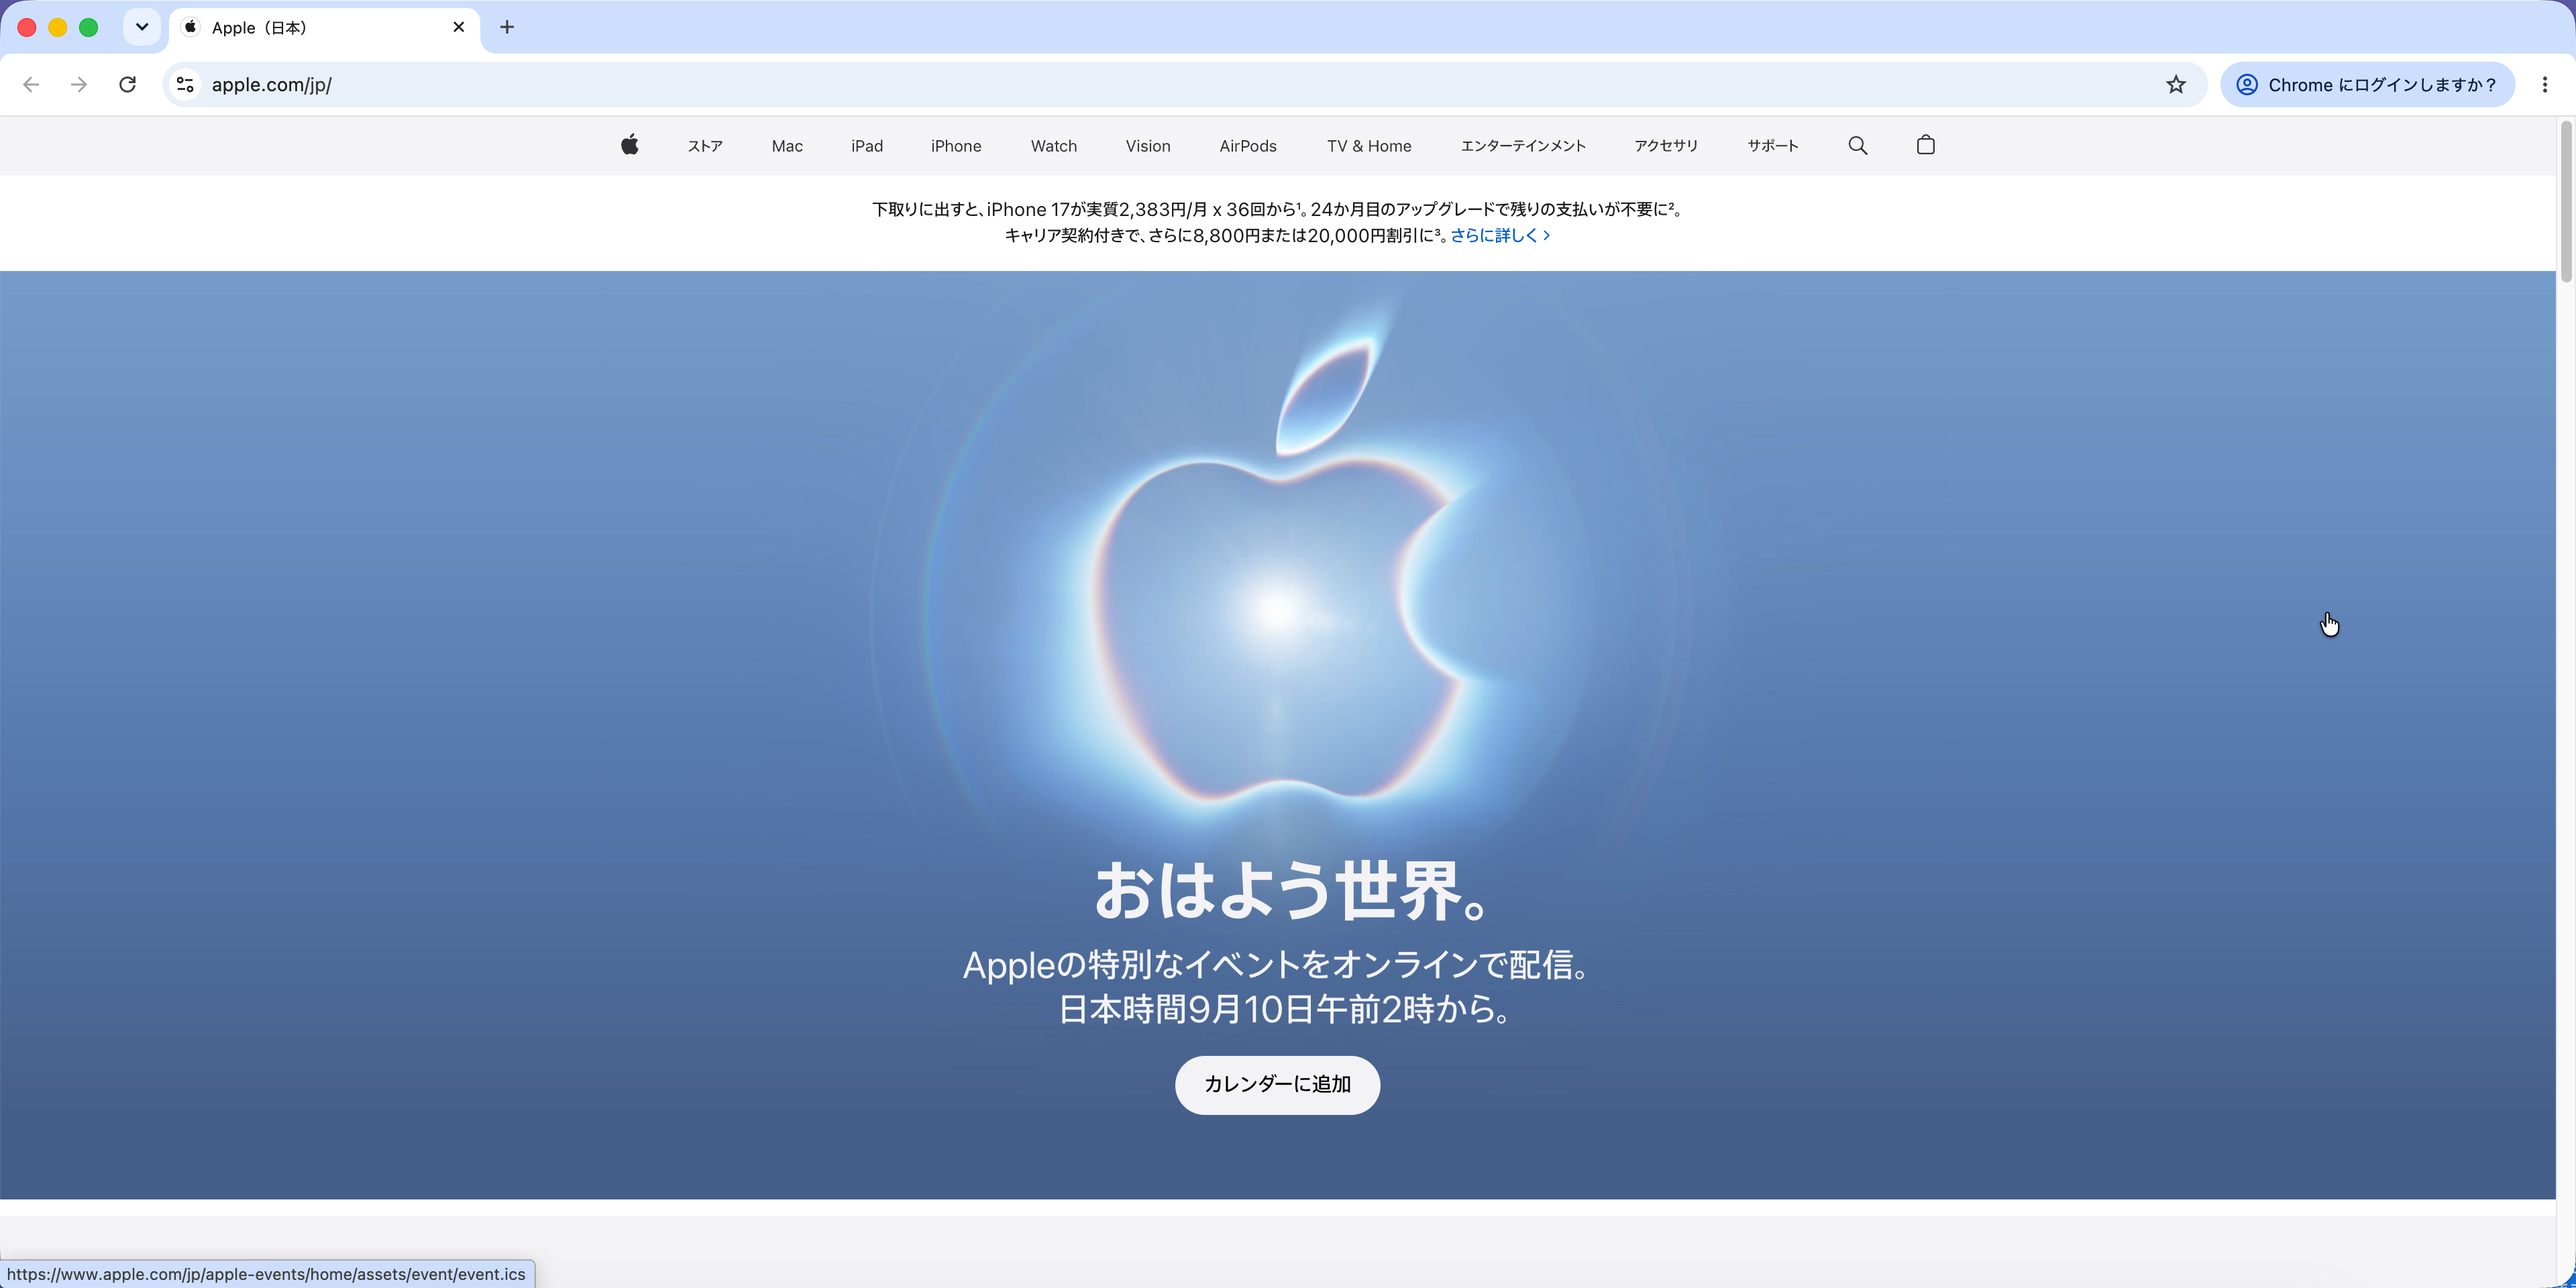
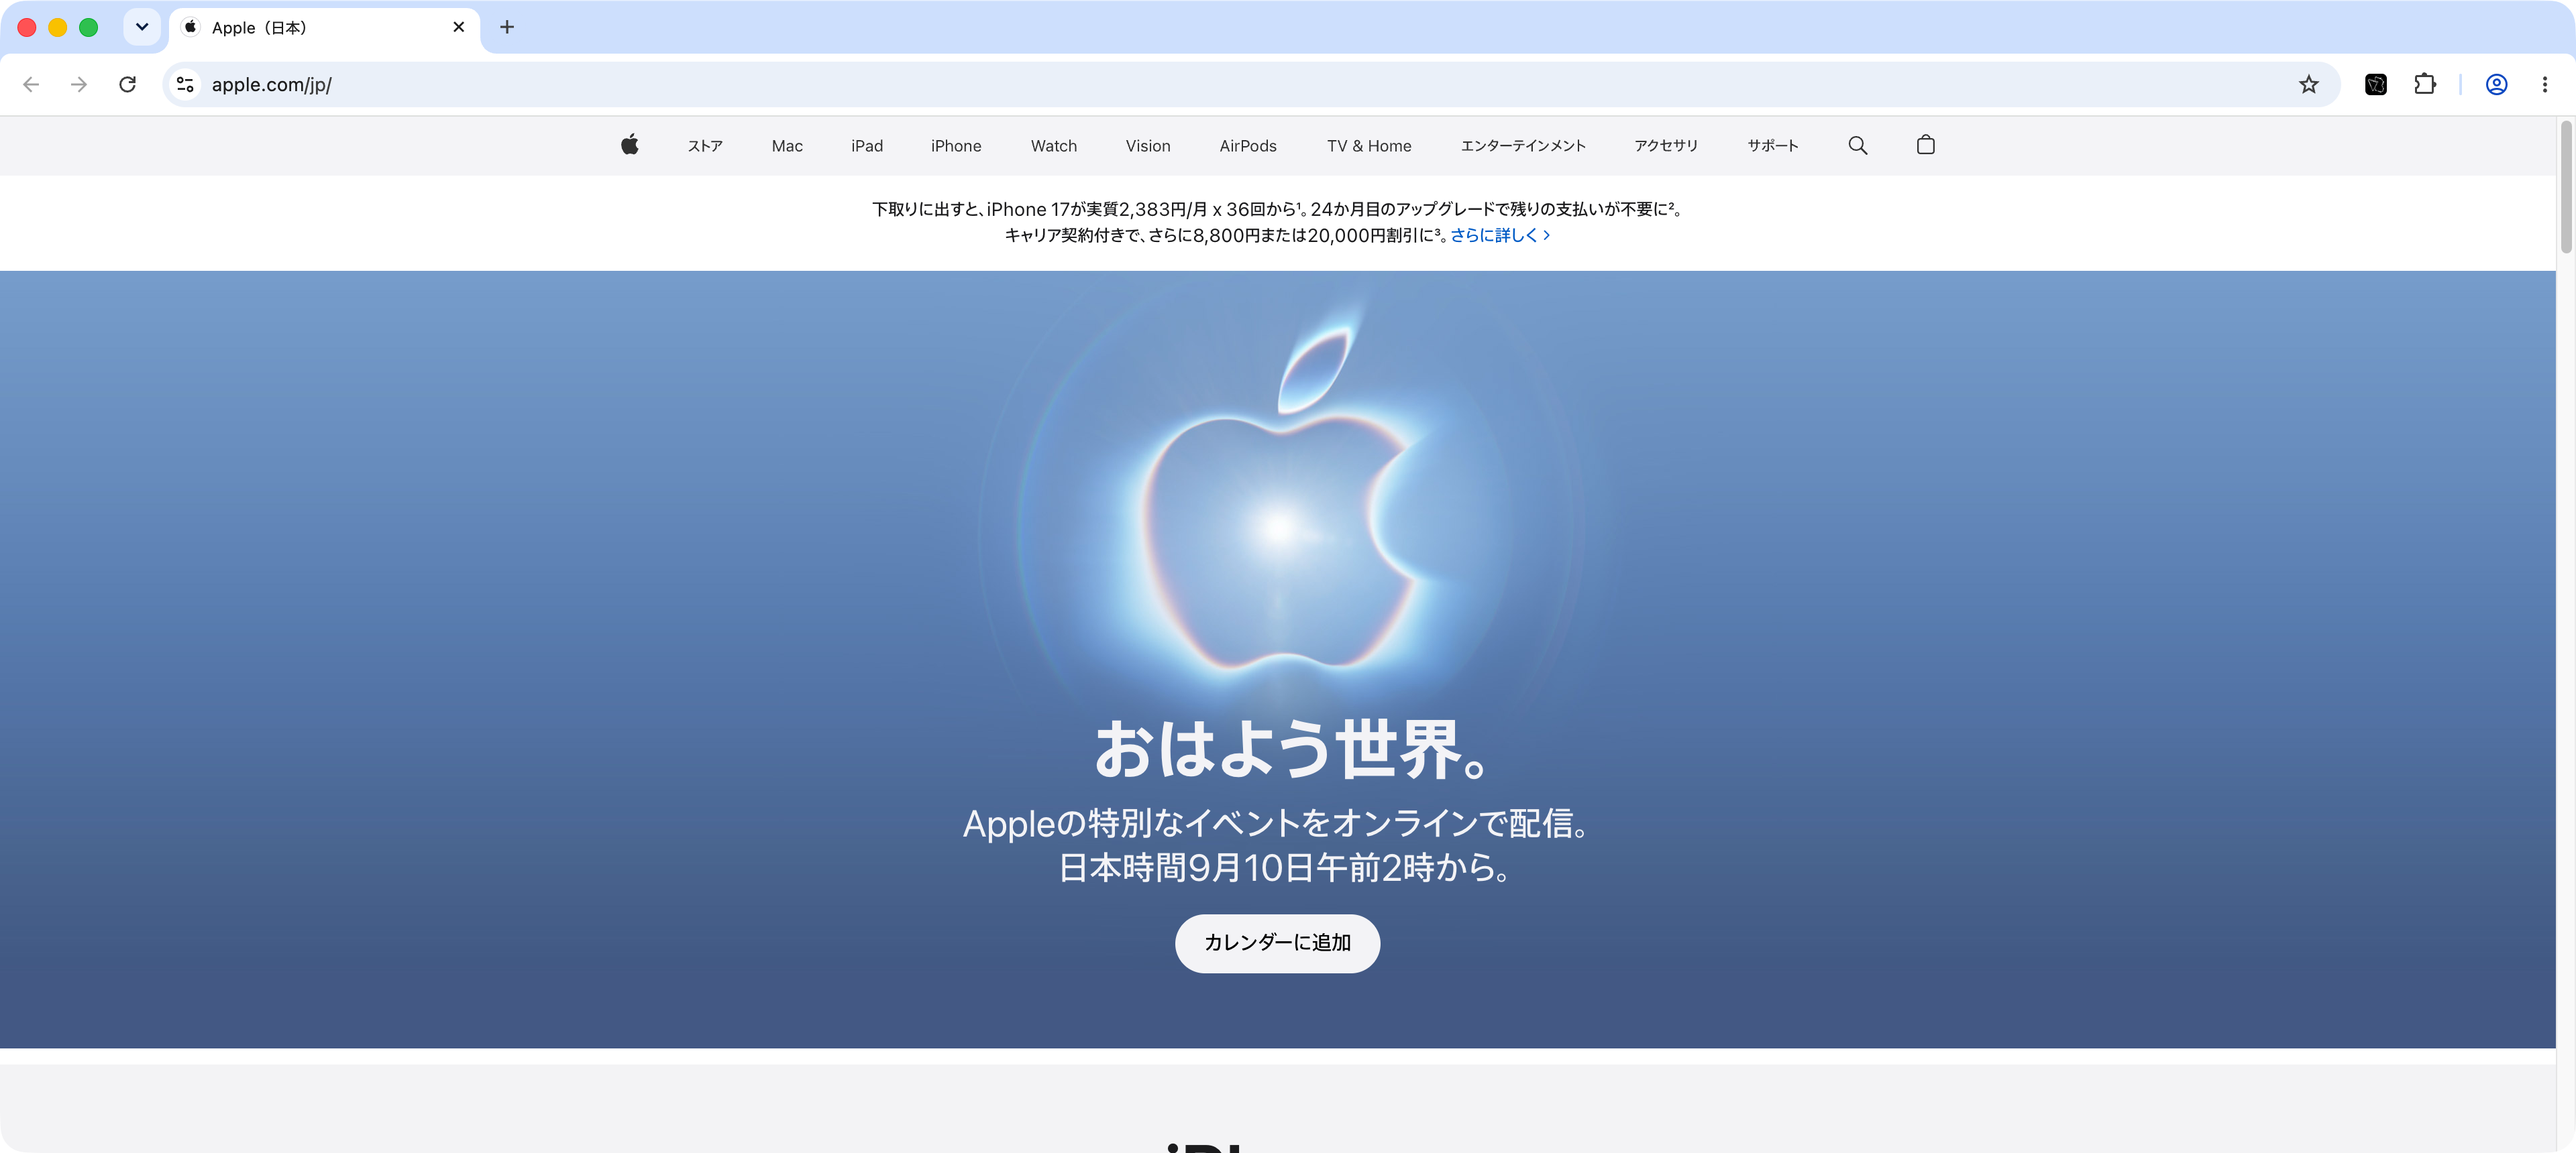
README のスクリーンショットを実ウィンドウの撮り直しへ差し替える
旧 docs/screenshots/ は CDP Emulation.setDeviceMetricsOverride で撮った PoC 証跡で、
「ウィンドウ自体がその幅になる」という本製品の主張の裏付けになっていなかった。
撮影専用の空プロファイルで Chrome を起動し、幅は native messaging host
（AppleScript set bounds）で変え、screencapture -l で対象ウィンドウ 1 枚だけを撮り直した。

- popup-1280px.png を追加。ツールバーのアイコンを実際にクリックして開いた本物のポップアップ。
  同じ操作で 375 を押すとウィンドウが 375x860 になることを確認している
- viewport-0375/0390/0768/1920px.png を実写へ差し替え。innerWidth は 4 幅とも狙い値と ±0
- comparison-4widths.png を実写から作り直し、縮小しても読める幅ラベルを付けた
- DevTools を bottom dock で開いたカット 2 枚を削除。ウィンドウが縮んでいる理由の説明にならず、
  かえって「DevTools で縮めている」と誤解させるため
- measurements.json と index.html を撮影方法・実測値ごと作り直した
- 冒頭ロゴを透過版から黒地版へ。透過版は GitHub のライトテーマ（白地）でほぼ消えていた
- --load-extension が無視される実測を Chrome 152 でも確認し、記述を 151 / 152 に更新

diff --git a/docs/screenshots/index.html b/docs/screenshots/index.html
@@ -1,6 +1,6 @@
 <!doctype html>
 <meta charset="utf-8">
-<title>VIEWPORT DECK — PoC スクリーンショット（2026-08-30）</title>
+<title>VIEWPORT BREAK — スクリーンショット実測（2026-09-02）</title>
 <style>
   :root { color-scheme: light dark; }
   body { margin:0; padding:40px 32px 80px; font:15px/1.7 -apple-system,"Hiragino Sans",sans-serif;
@@ -8,6 +8,7 @@
   @media (prefers-color-scheme: dark) { body { background:#111214; color:#e8e8ea; } }
   .wrap { max-width:1400px; margin:0 auto; }
   h1 { font-size:26px; margin:0 0 6px; }
+  h2 { font-size:19px; margin:36px 0 12px; }
   .lead { color:#666; margin:0 0 28px; }
   @media (prefers-color-scheme: dark) { .lead { color:#9a9aa2; } }
   table { border-collapse:collapse; margin:0 0 40px; font-size:14px; }
@@ -27,28 +28,45 @@
   .scroll img { max-width:none; border:0; border-radius:0; }
   .note { background:#fff8e1; border-left:4px solid #f0b400; padding:12px 16px; margin:0 0 32px; font-size:14px; }
   @media (prefers-color-scheme: dark) { .note { background:#2a2413; } }
+  dl { margin:0 0 32px; font-size:14px; }
+  dt { font-weight:700; margin-top:10px; }
+  dd { margin:2px 0 0 1.4em; color:#555; }
+  @media (prefers-color-scheme: dark) { dd { color:#a6a6ae; } }
 </style>
 <div class=wrap>
-  <h1>VIEWPORT DECK — PoC スクリーンショット</h1>
-  <p class=lead>2026-08-30 実測。対象は実サイト <b>https://www.apple.com/jp/</b>（<code>width=device-width, initial-scale=1, viewport-fit=cover</code>）。
-  方式A（専用プロファイル + 直接 CDP <code>Emulation.setDeviceMetricsOverride</code> / width-only）で幅だけを指定し、
-  画面上に出ている状態をそのまま撮影した。縮小表示ではなく <b>1 CSS px = 実寸</b> で描かれている。</p>
+  <h1>VIEWPORT BREAK — スクリーンショット実測</h1>
+  <p class=lead>2026-09-02 撮影。対象は実サイト <b>https://www.apple.com/jp/</b>、ブラウザは <b>Chrome/152.0.7977.65</b>。</p>
 
-  <div class=note>前回 PoC は自作の <code>probe.html</code>（viewport meta なし）で実測した。今回は
-  <b>viewport meta を持つ実サイト</b>で撮り直しており、POC_RESULT §9 の未検証項目 N-3 に対応する。</div>
+  <div class=note><b>すべて実ウィンドウの写真です。</b>幅の変更は製品本体（native messaging host）が
+  AppleScript の <code>set bounds</code> で行っており、DevTools のデバイスエミュレーションは使っていません。
+  2026-08-30 の旧 PoC は CDP <code>Emulation.setDeviceMetricsOverride</code> で撮っており、
+  この製品の動作写真としては使えないため差し替えました。</div>
+
+  <h2>撮影方法</h2>
+  <dl>
+    <dt>幅の変更</dt><dd>extension/bin/vw（native messaging host 本体の CLI）→ AppleScript set bounds。CDP の Emulation.setDeviceMetricsOverride は使っていない。実ウィンドウが本当にその幅になっている。</dd>
+    <dt>撮影</dt><dd>screencapture -x -o -l <CGWindowID>。対象ウィンドウ 1 枚だけを撮るので、背後のデスクトップ・他アプリ・システムダイアログは写らない。</dd>
+    <dt>プロファイル</dt><dd>撮影専用の空プロファイル（--user-data-dir）。ブックマークバー無し、拡張は VIEWPORT BREAK だけをツールバーに固定。</dd>
+    <dt>DevTools</dt><dd>全カットで DevTools は閉じている。</dd>
+  </dl>
 
   <h2>実測値</h2>
   <table>
-    <tr><th>狙った幅</th><th>innerWidth</th><th>visualViewport</th><th>innerHeight</th><th>DPR</th><th>横スクロール</th><th>判定</th><th>DevTools</th></tr>
-      <tr><td>375px</td><td class=n>375px</td><td class=n>360px</td><td class=n>873px</td><td class=n>2</td><td>なし</td><td class=ok>±0</td><td>—</td></tr>
-      <tr><td>390px</td><td class=n>390px</td><td class=n>375px</td><td class=n>873px</td><td class=n>2</td><td>なし</td><td class=ok>±0</td><td>—</td></tr>
-      <tr><td>768px</td><td class=n>768px</td><td class=n>753px</td><td class=n>873px</td><td class=n>2</td><td>なし</td><td class=ok>±0</td><td>—</td></tr>
-      <tr><td>1920px</td><td class=n>1920px</td><td class=n>1905px</td><td class=n>873px</td><td class=n>2</td><td>なし</td><td class=ok>±0</td><td>—</td></tr>
-      <tr><td>390px</td><td class=n>390px</td><td class=n>375px</td><td class=n>573px</td><td class=n>2</td><td>なし</td><td class=ok>±0</td><td>dock=bottom</td></tr>
-      <tr><td>1920px</td><td class=n>1920px</td><td class=n>1905px</td><td class=n>573px</td><td class=n>2</td><td>なし</td><td class=ok>±0</td><td>dock=bottom</td></tr>
+    <tr><th>狙った幅</th><th>innerWidth</th><th>visualViewport</th><th>innerHeight</th><th>DPR</th><th>横スクロール</th><th>判定</th></tr>
+      <tr><td>375px</td><td class=n>375px</td><td class=n>360px</td><td class=n>773px</td><td class=n>2</td><td>なし</td><td class=ok>±0</td></tr>
+      <tr><td>390px</td><td class=n>390px</td><td class=n>375px</td><td class=n>773px</td><td class=n>2</td><td>なし</td><td class=ok>±0</td></tr>
+      <tr><td>768px</td><td class=n>768px</td><td class=n>753px</td><td class=n>773px</td><td class=n>2</td><td>なし</td><td class=ok>±0</td></tr>
+      <tr><td>1920px</td><td class=n>1920px</td><td class=n>1905px</td><td class=n>773px</td><td class=n>2</td><td>なし</td><td class=ok>±0</td></tr>
   </table>
   <p class=lead>visualViewport が 15px 小さいのは縦スクロールバー分。<code>innerWidth</code> は全ケースで狙った幅と ±0px 一致した。
-  DevTools を下ドックで開くと縦が 873 → 573 CSS px に減るが、幅は 1920 でも切れない。</p>
+  375px は Chrome 単体の下限 500px を下回っている。</p>
+
+  <h2>ポップアップ（実際にツールバーから開いたもの）</h2>
+  <figure>
+    <figcaption><b>popup-1280px.png</b><span>ツールバーのアイコンを実クリックして開いた本物のポップアップ。同じ手順で 375 を押すと、拡張 → native host → AppleScript を通ってウィンドウが 375x860 になることを確認した（Chrome 単体の下限 500px を下回る）。</span></figcaption>
+    <img src="popup-1280px.png" alt="VIEWPORT BREAK のポップアップ">
+  </figure>
+  <p class=lead>native host の manifest を置いていないプロファイルでは chrome.windows.update へフォールバックし、同じ操作が 500x860 で止まった。README の「host が使えなければ 500px 止まり」と一致する。</p>
 
   <h2>4 幅の比較（1 CSS px = 1 画像 px。横スクロールで全体を見られる）</h2>
   <div class=scroll><img src="comparison-4widths.png" alt="375/390/768/1920 の比較"></div>
@@ -56,27 +74,19 @@
 
   <h2>各幅の画面まるごと</h2>
     <figure>
-      <figcaption><b>幅 375px（DevTools なし）</b><span>狙い 375px / 実測 innerWidth <b class=g>375px</b> / innerHeight 873px</span></figcaption>
-      <img src="viewport-0375px.png" alt="幅 375px（DevTools なし）">
+      <figcaption><b>幅 375px</b><span>狙い 375px / 実測 innerWidth <b class=g>375px</b> / innerHeight 773px / host の読み返し 375x860 @(40,70)</span></figcaption>
+      <img src="viewport-0375px.png" alt="幅 375px の Chrome ウィンドウ">
     </figure>
     <figure>
-      <figcaption><b>幅 390px（DevTools なし）</b><span>狙い 390px / 実測 innerWidth <b class=g>390px</b> / innerHeight 873px</span></figcaption>
-      <img src="viewport-0390px.png" alt="幅 390px（DevTools なし）">
+      <figcaption><b>幅 390px</b><span>狙い 390px / 実測 innerWidth <b class=g>390px</b> / innerHeight 773px / host の読み返し 390x860 @(40,70)</span></figcaption>
+      <img src="viewport-0390px.png" alt="幅 390px の Chrome ウィンドウ">
     </figure>
     <figure>
-      <figcaption><b>幅 768px（DevTools なし）</b><span>狙い 768px / 実測 innerWidth <b class=g>768px</b> / innerHeight 873px</span></figcaption>
-      <img src="viewport-0768px.png" alt="幅 768px（DevTools なし）">
+      <figcaption><b>幅 768px</b><span>狙い 768px / 実測 innerWidth <b class=g>768px</b> / innerHeight 773px / host の読み返し 768x860 @(40,70)</span></figcaption>
+      <img src="viewport-0768px.png" alt="幅 768px の Chrome ウィンドウ">
     </figure>
     <figure>
-      <figcaption><b>幅 1920px（DevTools なし）</b><span>狙い 1920px / 実測 innerWidth <b class=g>1920px</b> / innerHeight 873px</span></figcaption>
-      <img src="viewport-1920px.png" alt="幅 1920px（DevTools なし）">
-    </figure>
-    <figure>
-      <figcaption><b>幅 390px（DevTools を下ドックで表示した状態）</b><span>狙い 390px / 実測 innerWidth <b class=g>390px</b> / innerHeight 573px</span></figcaption>
-      <img src="viewport-devtools-bottom-0390px.png" alt="幅 390px（DevTools を下ドックで表示した状態）">
-    </figure>
-    <figure>
-      <figcaption><b>幅 1920px（DevTools を下ドックで表示した状態）</b><span>狙い 1920px / 実測 innerWidth <b class=g>1920px</b> / innerHeight 573px</span></figcaption>
-      <img src="viewport-devtools-bottom-1920px.png" alt="幅 1920px（DevTools を下ドックで表示した状態）">
+      <figcaption><b>幅 1920px</b><span>狙い 1920px / 実測 innerWidth <b class=g>1920px</b> / innerHeight 773px / host の読み返し 1920x860 @(0,70)</span></figcaption>
+      <img src="viewport-1920px.png" alt="幅 1920px の Chrome ウィンドウ">
     </figure>
 </div>
